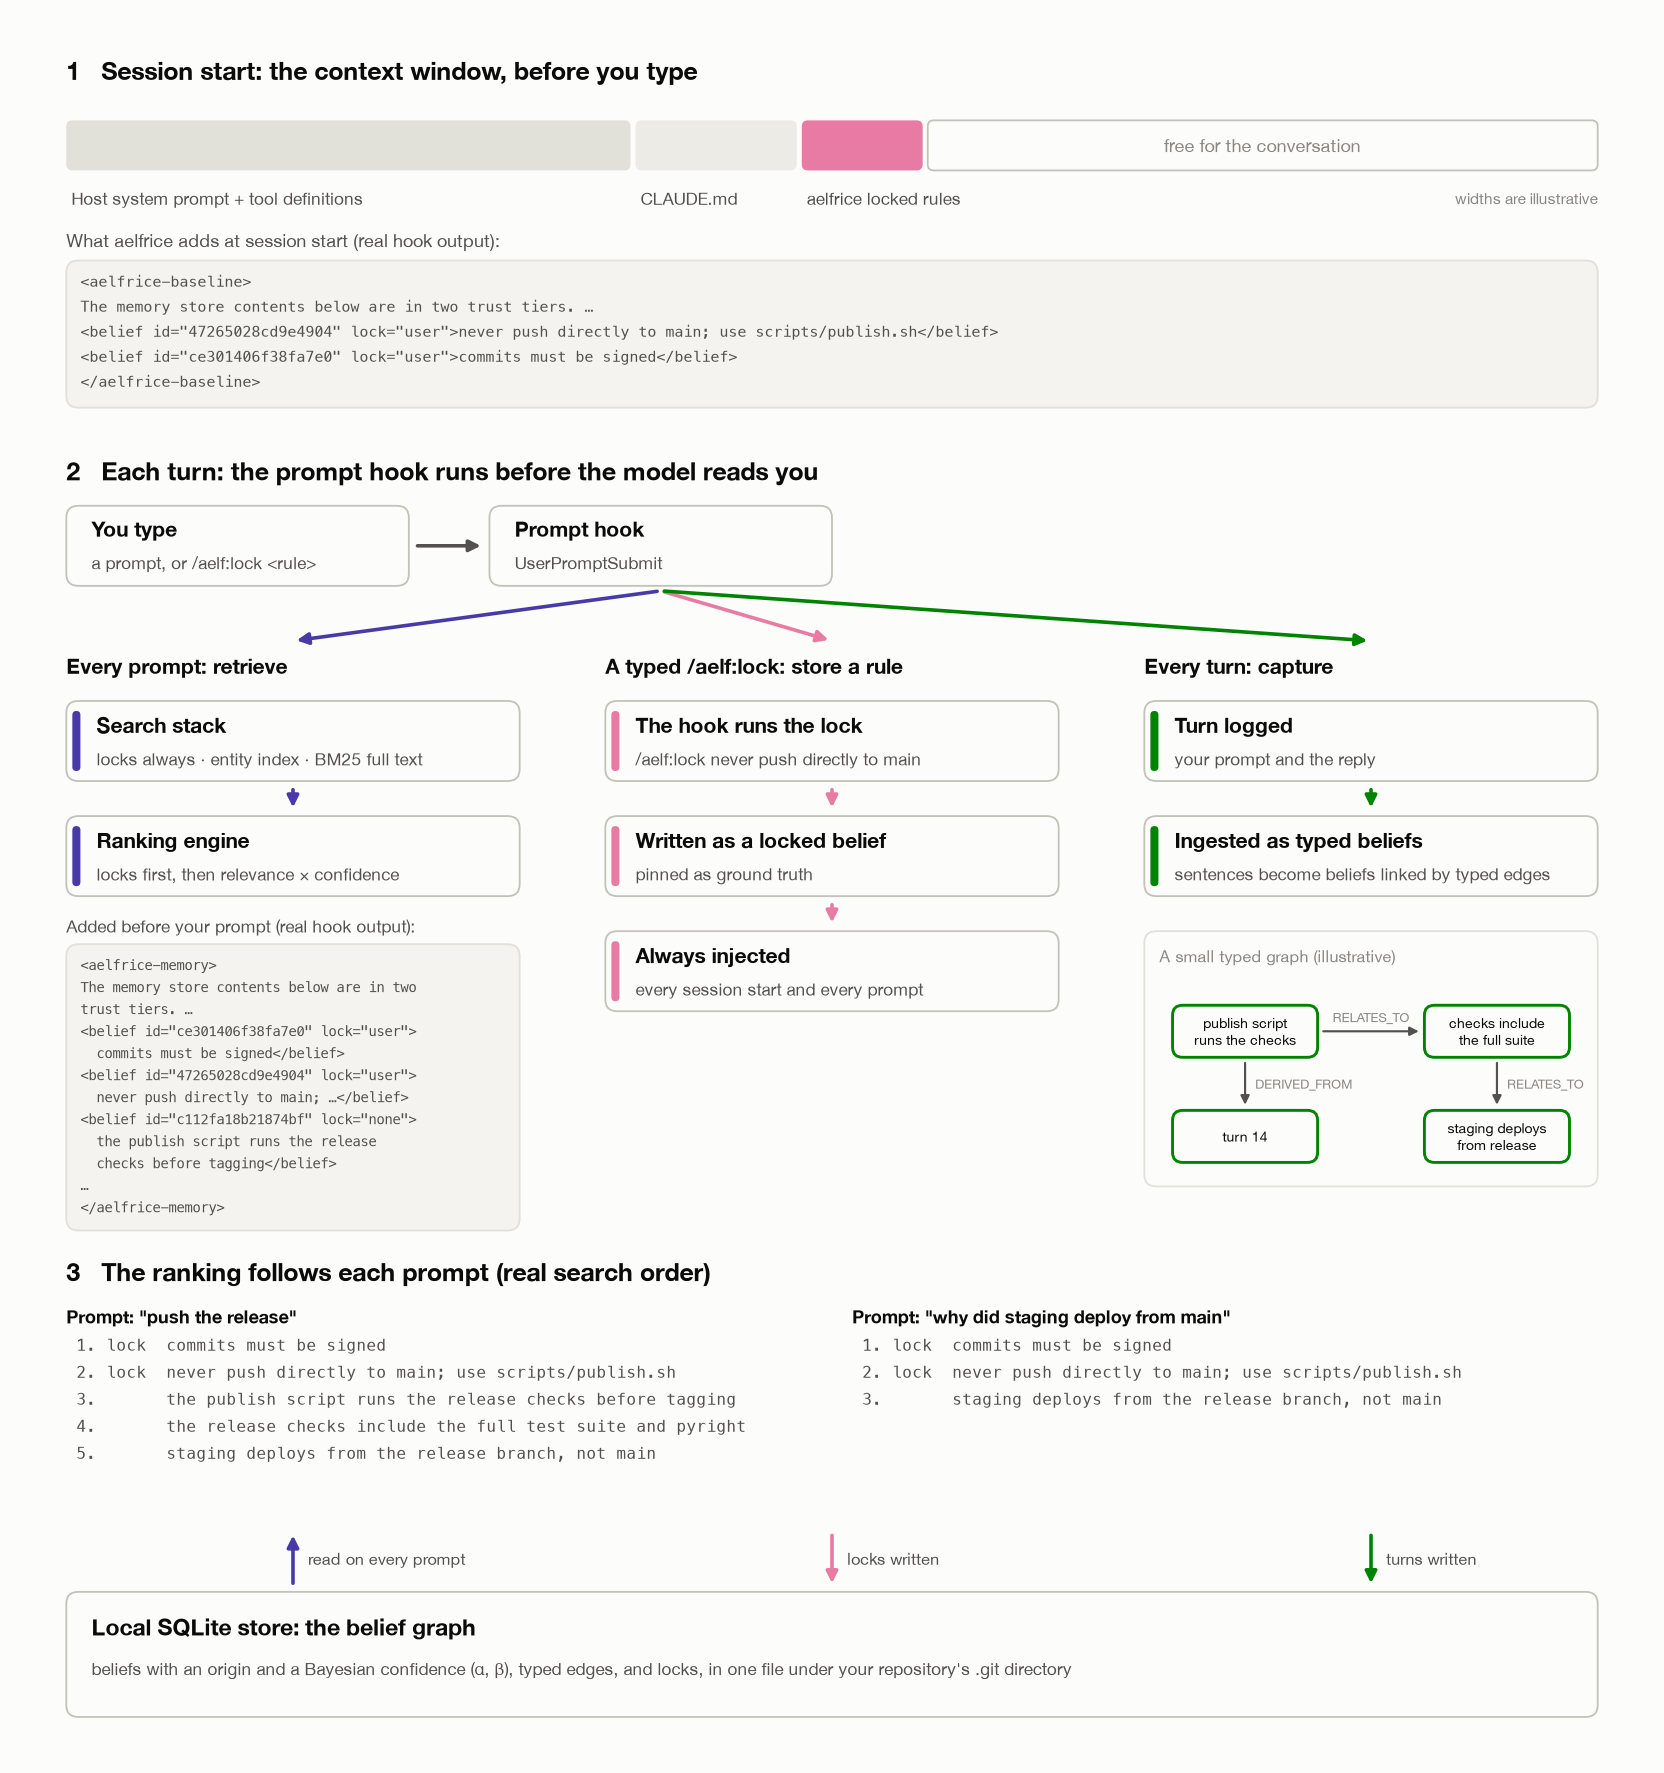
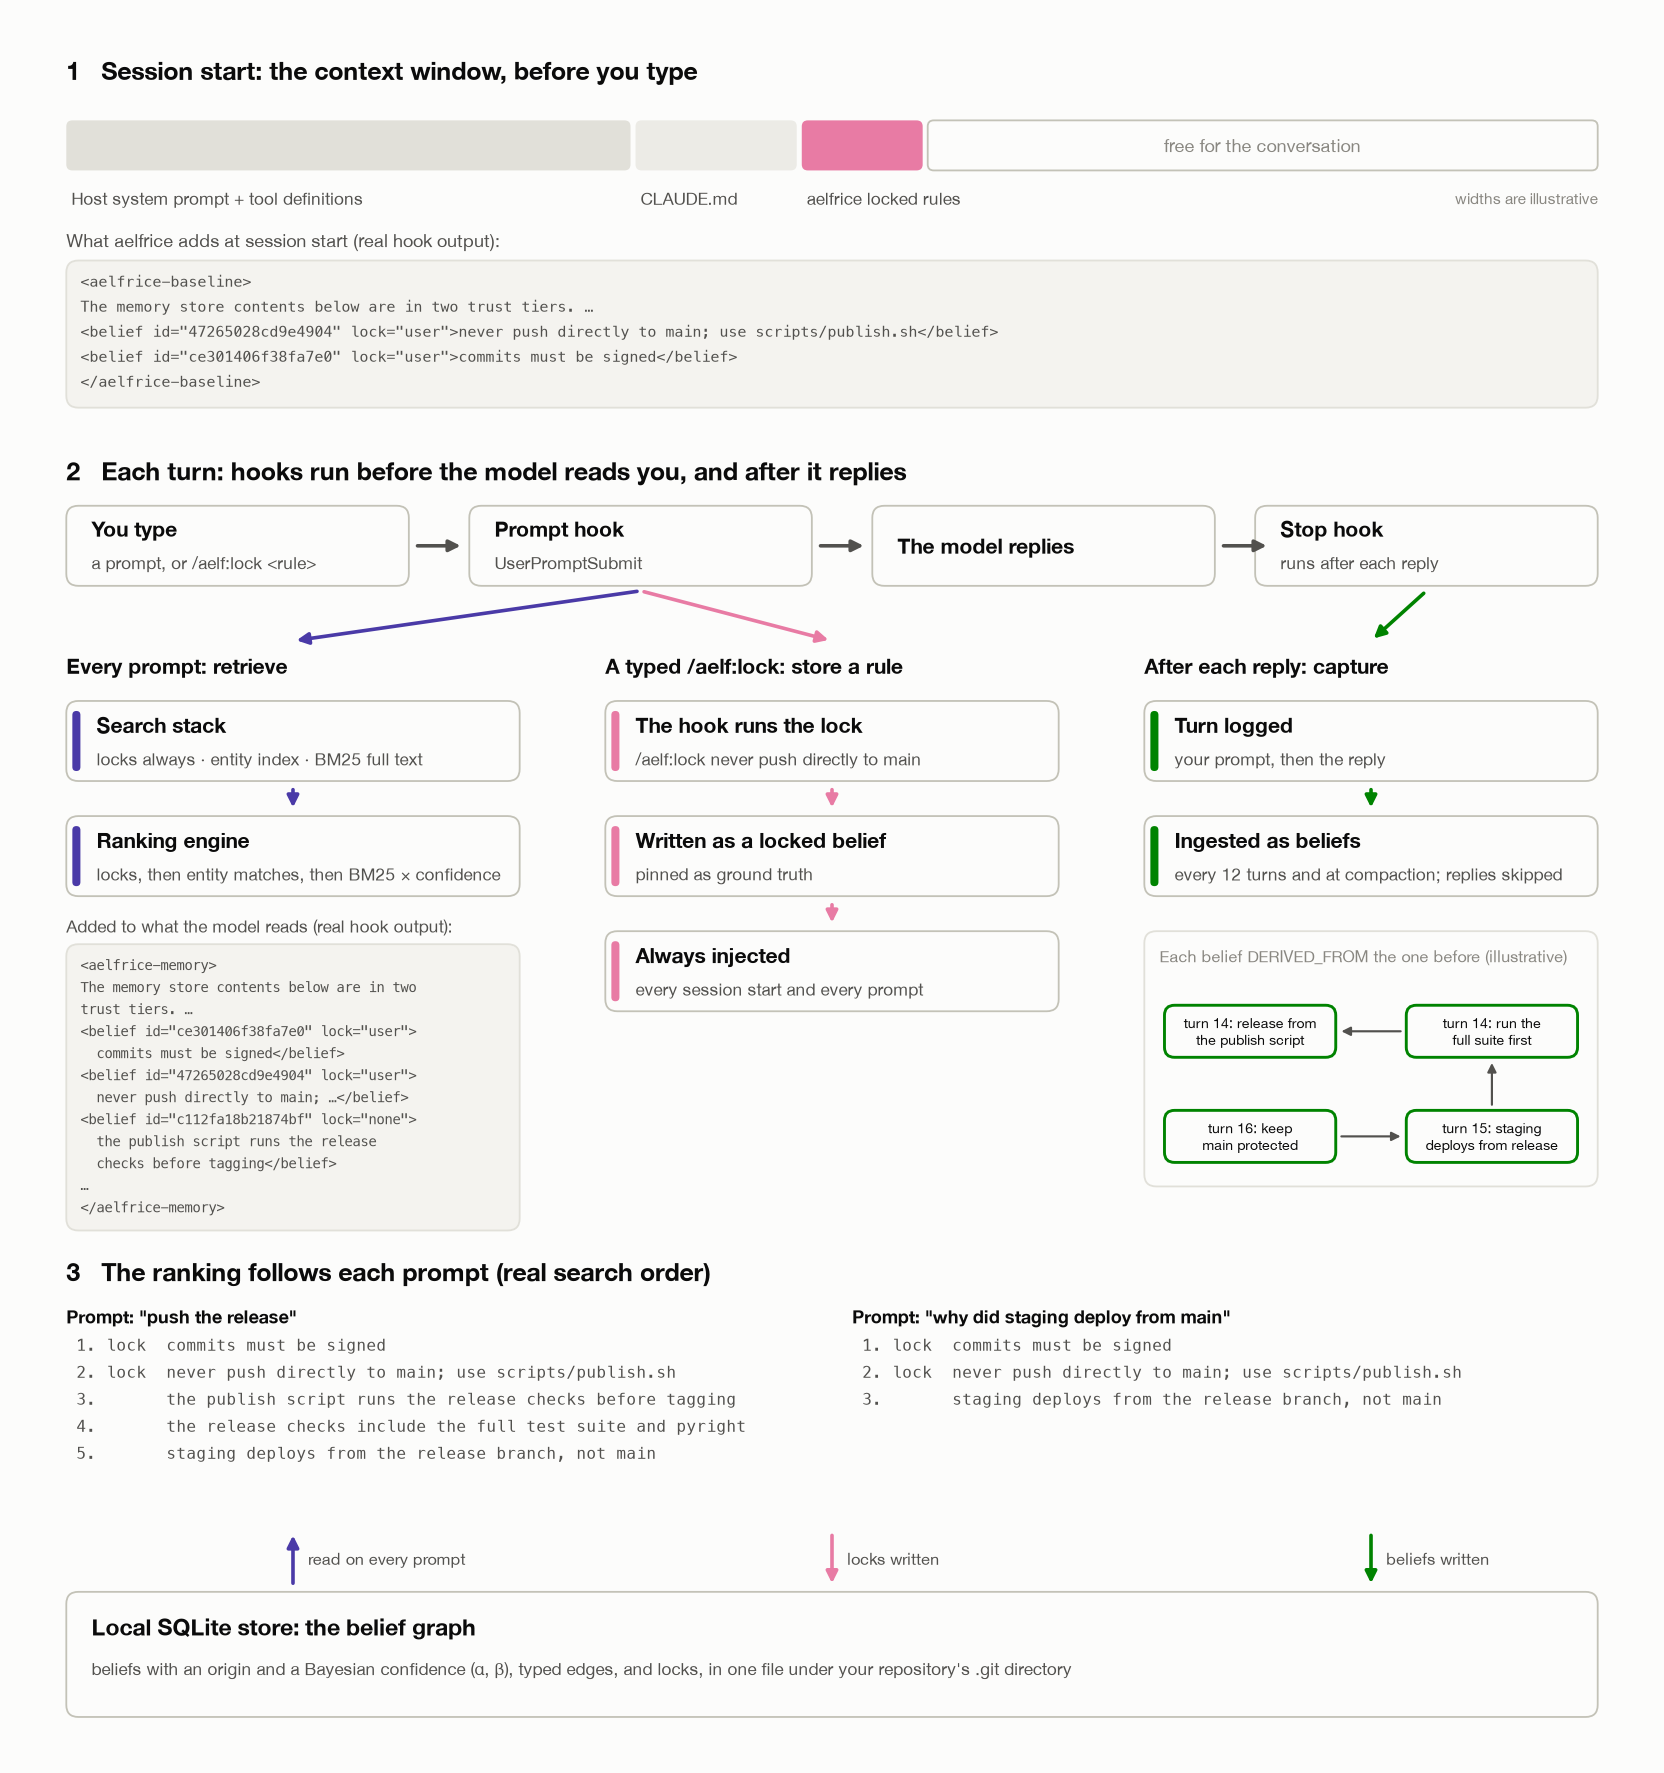
docs(assets): draw capture from the Stop hook, with DERIVED_FROM edges and the real rank order
A fact-check found three errors in the diagram. Capture came out of the prompt hook, but the Stop hook logs the reply and triggers ingestion every 12 turns. The graph showed RELATES_TO, but turn ingestion writes only DERIVED_FROM. The ranking label omitted the entity lane, which comes after locks and ahead of BM25.

diff --git a/docs/assets/render_how_it_works.py b/docs/assets/render_how_it_works.py
@@ -2,7 +2,7 @@
 
 Renders docs/assets/how-it-works-light.png and how-it-works-dark.png.
 
-Color does one job: it tells the three paths out of the prompt hook apart.
+Color does one job: it tells the three paths apart.
 The palette is three slots of a validated categorical palette, checked
 all-pairs for color-vision deficiency in both modes; everything else is
 neutral ink, and every colored mark carries a text label, so color is
@@ -10,7 +10,8 @@ never the only cue.
 
   violet   retrieval: every prompt, the hook reads the store and adds a block
   magenta  lock: a typed /aelf:lock writes a rule that comes back every time
-  green    capture: each turn is logged and ingested as typed beliefs
+  green    capture: each turn is logged, and your sentences are ingested
+           as beliefs linked by DERIVED_FROM edges
 
 The quoted blocks are real hook output for a five-belief demo store (two
 locks, three ordinary beliefs); the two ranked lists are real `aelf search`
@@ -150,34 +151,42 @@ def render(mode: str) -> pathlib.Path:
     code(0.4, 14.85, 15.2, BASELINE)
 
     # 2. One turn: the prompt hook and its three paths.
-    heading(12.75, "2   Each turn: the prompt hook runs before the model reads you")
-    panel(0.4, 11.6, 3.4, 0.8)
-    text(0.65, 12.17, "You type", 11.5, weight="bold")
-    text(0.65, 11.83, "a prompt, or /aelf:lock <rule>", 9.5, color=t["ink2"])
-    panel(4.6, 11.6, 3.4, 0.8)
-    text(4.85, 12.17, "Prompt hook", 11.5, weight="bold")
-    text(4.85, 11.83, "UserPromptSubmit", 9.5, color=t["ink2"])
-    arrow((3.85, 12.0), (4.55, 12.0), t["ink2"])
+    heading(12.75, "2   Each turn: hooks run before the model reads you, and after it replies")
+    row = [
+        (0.4, "You type", "a prompt, or /aelf:lock <rule>"),
+        (4.4, "Prompt hook", "UserPromptSubmit"),
+        (8.4, "The model replies", ""),
+        (12.2, "Stop hook", "runs after each reply"),
+    ]
+    for x, title, sub in row:
+        panel(x, 11.6, 3.4, 0.8)
+        text(x + 0.25, 12.0 + (0.17 if sub else 0), title, 11.5,
+             weight="bold")
+        if sub:
+            text(x + 0.25, 11.83, sub, 9.5, color=t["ink2"])
+    for x in (3.85, 7.85, 11.85):
+        arrow((x, 12.0), (x + 0.5, 12.0), t["ink2"])
 
     col = [0.4, 5.75, 11.1]
     width = 4.5
     heads = [
         (t["violet"], "Every prompt: retrieve"),
         (t["magenta"], "A typed /aelf:lock: store a rule"),
-        (t["green"], "Every turn: capture"),
+        (t["green"], "After each reply: capture"),
     ]
-    rads = [0.0, 0.0, 0.0]
-    for x, (color, head), rad in zip(col, heads, rads):
-        arrow((6.3, 11.55), (x + width / 2, 11.05), color, rad=rad)
+    # Retrieve and lock leave the prompt hook; capture leaves the Stop hook.
+    starts = [(6.1, 11.55), (6.1, 11.55), (13.9, 11.55)]
+    for x, (color, head), p0 in zip(col, heads, starts):
+        arrow(p0, (x + width / 2, 11.05), color)
         text(x, 10.8, head, 11.5, weight="bold")
 
     # Retrieval path.
     step(col[0], 9.65, width, 0.8, t["violet"], "Search stack",
          "locks always · entity index · BM25 full text")
     step(col[0], 8.5, width, 0.8, t["violet"], "Ranking engine",
-         "locks first, then relevance × confidence")
+         "locks, then entity matches, then BM25 × confidence")
     arrow((col[0] + width / 2, 9.6), (col[0] + width / 2, 9.35), t["violet"])
-    text(col[0], 8.2, "Added before your prompt (real hook output):", 9.5,
+    text(col[0], 8.2, "Added to what the model reads (real hook output):", 9.5,
          color=t["ink2"])
     code(col[0], 8.02, width, MEMORY, size=7.6, step_y=0.22)
 
@@ -193,44 +202,43 @@ def render(mode: str) -> pathlib.Path:
 
     # Capture path, ending in a small typed graph.
     step(col[2], 9.65, width, 0.8, t["green"], "Turn logged",
-         "your prompt and the reply")
-    step(col[2], 8.5, width, 0.8, t["green"], "Ingested as typed beliefs",
-         "sentences become beliefs linked by typed edges")
+         "your prompt, then the reply")
+    step(col[2], 8.5, width, 0.8, t["green"], "Ingested as beliefs",
+         "every 12 turns and at compaction; replies skipped")
     arrow((col[2] + width / 2, 9.6), (col[2] + width / 2, 9.35), t["green"])
     gx, gy = col[2], 5.6
     panel(gx, gy, width, 2.55, edge=t["hair"])
-    text(gx + 0.15, gy + 2.3, "A small typed graph (illustrative)", 9,
+    text(gx + 0.15, gy + 2.3, "Each belief DERIVED_FROM the one before (illustrative)", 9,
          color=t["muted"])
     nodes = {
-        "a": (gx + 1.0, gy + 1.55, "publish script\nruns the checks"),
-        "b": (gx + 3.5, gy + 1.55, "checks include\nthe full suite"),
-        "c": (gx + 1.0, gy + 0.5, "turn 14"),
-        "d": (gx + 3.5, gy + 0.5, "staging deploys\nfrom release"),
+        "a": (gx + 1.05, gy + 1.55, "turn 14: release from\nthe publish script"),
+        "b": (gx + 3.45, gy + 1.55, "turn 14: run the\nfull suite first"),
+        "c": (gx + 3.45, gy + 0.5, "turn 15: staging\ndeploys from release"),
+        "d": (gx + 1.05, gy + 0.5, "turn 16: keep\nmain protected"),
     }
     for nx, ny, label in nodes.values():
         ax.add_patch(FancyBboxPatch(
-            (nx - 0.72, ny - 0.26), 1.44, 0.52,
+            (nx - 0.85, ny - 0.26), 1.7, 0.52,
             boxstyle="round,pad=0,rounding_size=0.1",
             facecolor=t["surface"], edgecolor=t["green"], lw=1.6, zorder=4))
         text(nx, ny, label, 7.8, ha="center")
+    # Every edge is DERIVED_FROM, which the panel title names, so the
+    # arrows carry no labels: later belief -> the one before it.
     edges = [
-        (("a", "right"), ("b", "left"), "RELATES_TO", (0, 0.14)),
-        (("a", "bottom"), ("c", "top"), "DERIVED_FROM", (0.1, 0)),
-        (("b", "bottom"), ("d", "top"), "RELATES_TO", (0.1, 0)),
+        (("b", "left"), ("a", "right")),
+        (("c", "top"), ("b", "bottom")),
+        (("d", "right"), ("c", "left")),
     ]
 
     def anchor(key, side):
         nx, ny, _ = nodes[key]
-        return {"right": (nx + 0.74, ny), "left": (nx - 0.74, ny),
+        return {"right": (nx + 0.87, ny), "left": (nx - 0.87, ny),
                 "top": (nx, ny + 0.28), "bottom": (nx, ny - 0.28)}[side]
 
-    for (a, sa), (b, sb), label, (ox, oy) in edges:
-        p0, p1 = anchor(a, sa), anchor(b, sb)
+    for (a, sa), (b, sb) in edges:
         ax.add_patch(FancyArrowPatch(
-            p0, p1, arrowstyle="-|>", mutation_scale=10, color=t["ink2"],
-            lw=1.2, zorder=3))
-        text((p0[0] + p1[0]) / 2 + ox, (p0[1] + p1[1]) / 2 + oy, label, 7.2,
-             color=t["muted"], ha="left" if ox else "center")
+            anchor(a, sa), anchor(b, sb), arrowstyle="-|>", mutation_scale=10,
+            color=t["ink2"], lw=1.2, zorder=3))
 
     # 3. The ranking engine, turn by turn: real `aelf search` orderings.
     heading(4.75, "3   The ranking follows each prompt (real search order)")
@@ -253,7 +261,7 @@ def render(mode: str) -> pathlib.Path:
     for x, color, label, up in [
         (col[0], t["violet"], "read on every prompt", True),
         (col[1], t["magenta"], "locks written", False),
-        (col[2], t["green"], "turns written", False),
+        (col[2], t["green"], "beliefs written", False),
     ]:
         cx = x + width / 2
         p_top, p_bot = (cx, 2.15), (cx, 1.6)
